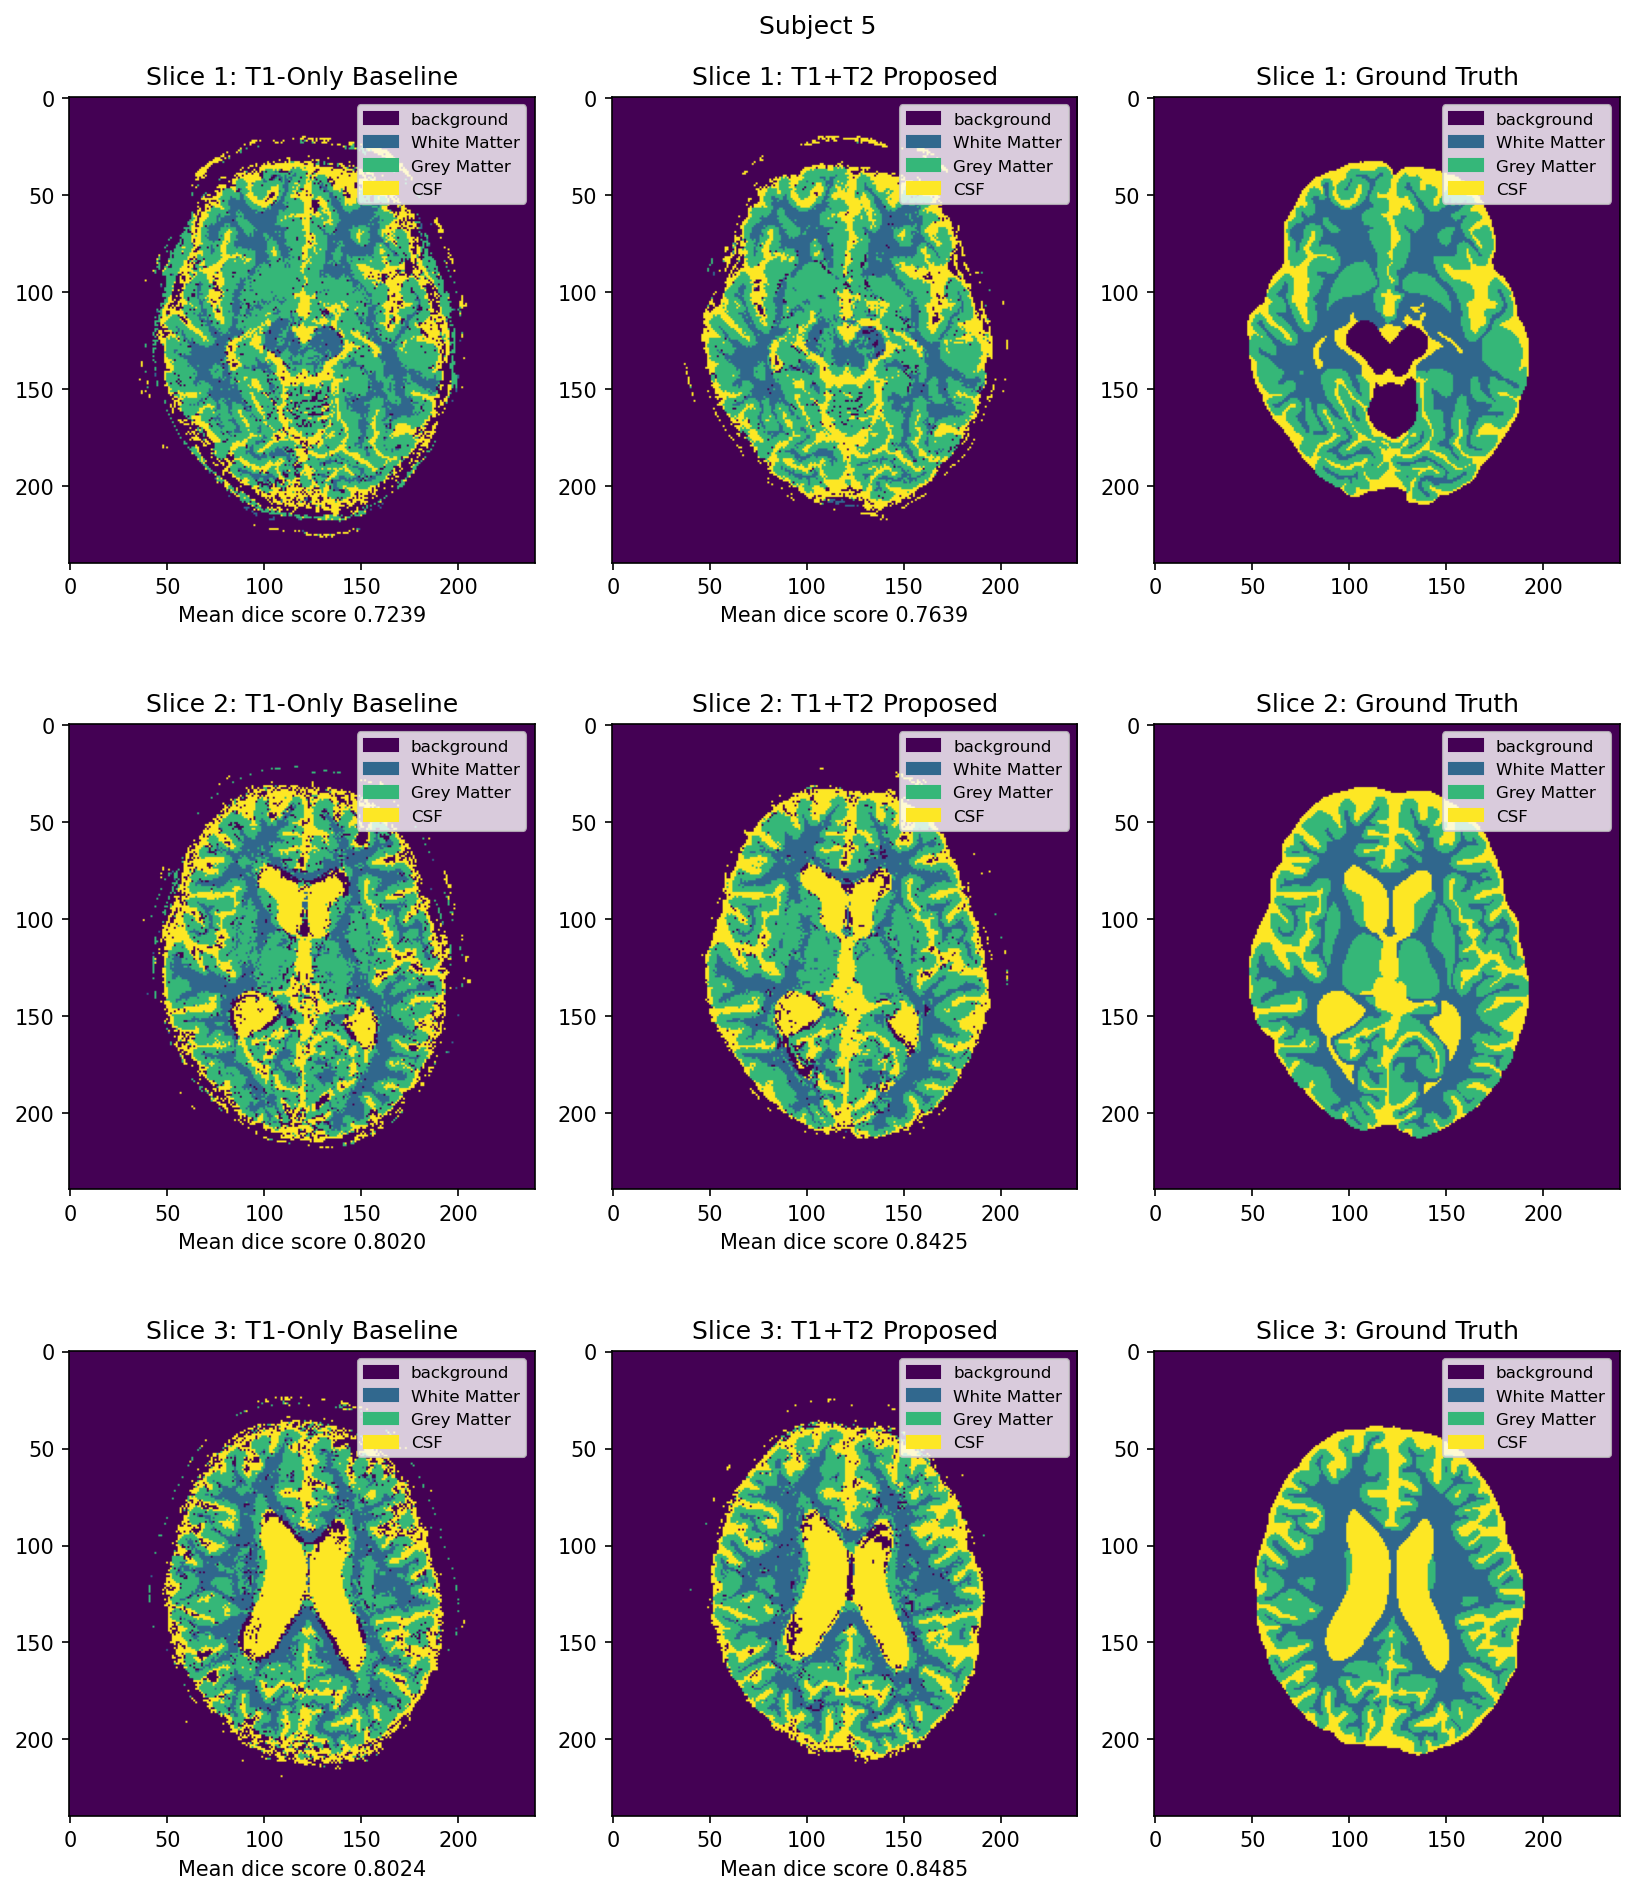
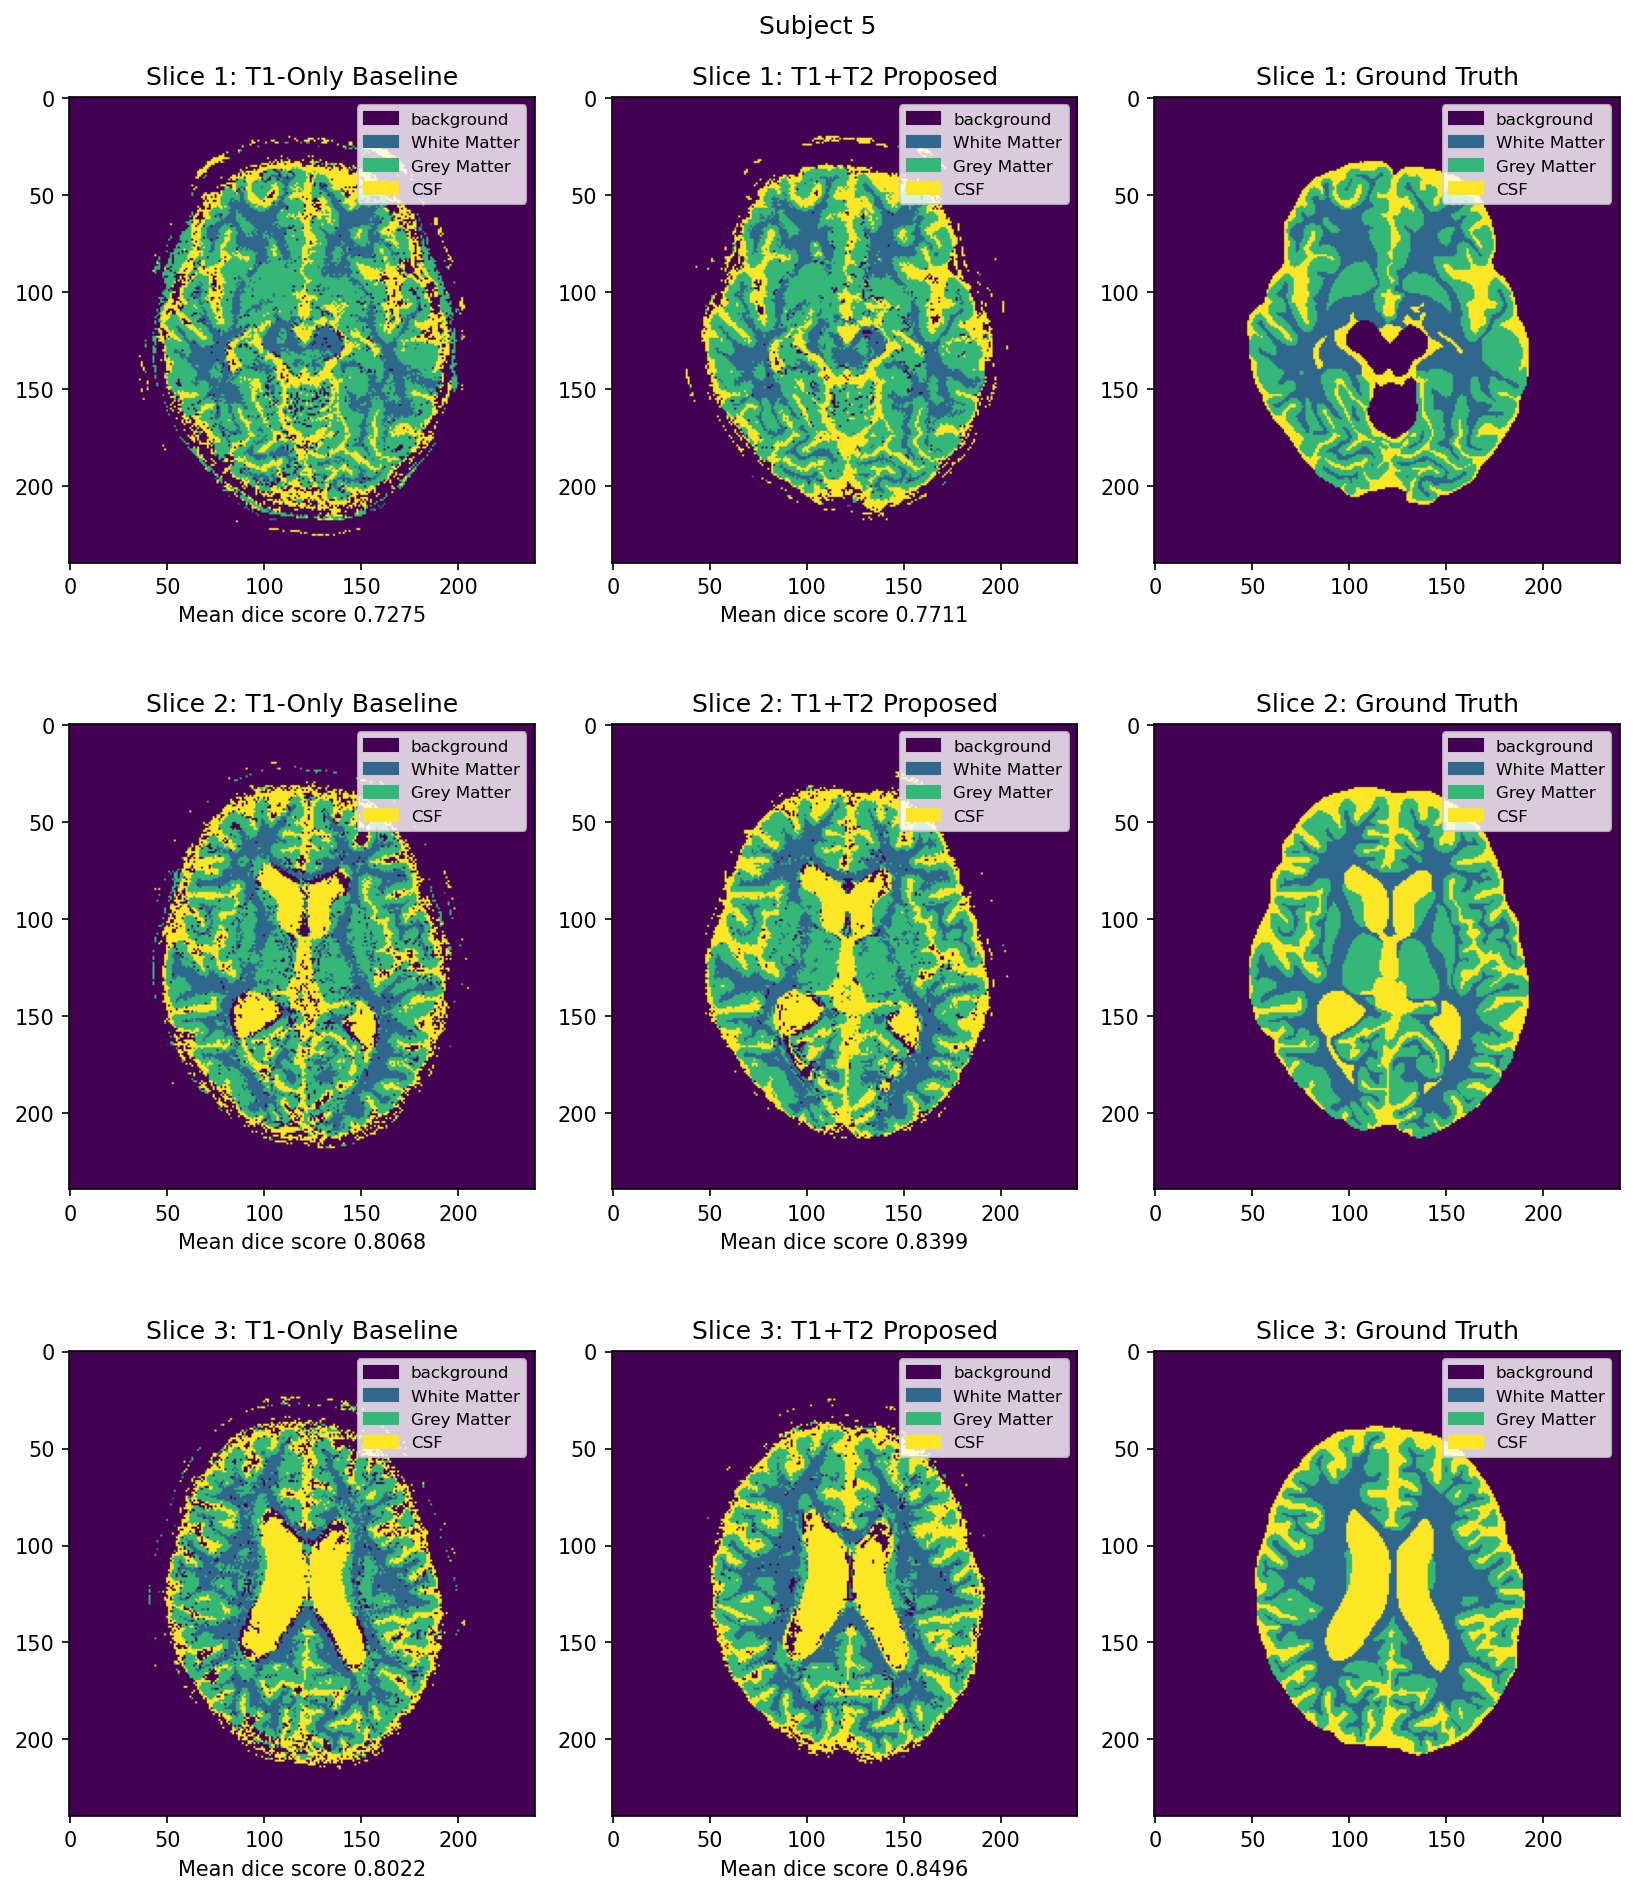
Average dice score per class also printed at the end

diff --git a/Segmentation/code/segmentation_project.py b/Segmentation/code/segmentation_project.py
@@ -44,9 +44,14 @@ def segmentation_demo():
     all_data_t1t2 = []
     all_labels = []
 
-    average_confusion_matrix_t1 = np.zeros((4,4)) #because we have 4 classes (background, CSF, GM, WM)
-    average_confusion_matrix_t1t2 = np.zeros((4,4)) #because we have 4 classes (background, CSF, GM, WM)
+    sum_confusion_matrix_t1 = np.zeros((4,4)) #because we have 4 classes (background, CSF, GM, WM)
+    sum_confusion_matrix_t1t2 = np.zeros((4,4)) #because we have 4 classes (background, CSF, GM, WM)
     count = 0
+
+    labels = ['background', 'White Matter', 'Grey Matter', 'CSF']
+
+    dice_sum_t1 = 0
+    dice_sum_t1t2 = 0
 
     print(f'Loading data for {num_subjects} subjects with {len(train_slices)} slices...')
     for i in all_subjects:
@@ -77,12 +82,9 @@ def segmentation_demo():
     all_indices = np.arange(num_subjects * len(train_slices))
 
     # -----Create legend for all slices--------------------------
-    labels = ['background', 'White Matter', 'Grey Matter', 'CSF']
     cmap = plt.cm.viridis
     colors = cmap([0/3, 1/3, 2/3, 3/3])  # normalized positions in the colormap
     patches = [mpatches.Patch(color=colors[i], label=labels[i])for i in range(len(labels))]
-
-    dice_score_list = []
 
     # Leave-One-Slice-Out Cross-Validation
     for i in all_subjects:
@@ -114,9 +116,11 @@ def segmentation_demo():
             predicted_labels_t1 = segmentation_mymethod(train_data_t1, train_labels, test_data_t1, task)
 
             # Validate prediction
-            dice_t1 = util.dice_multiclass(test_labels, predicted_labels_t1)
+            dice_per_class_t1 = util.dice_multiclass(test_labels, predicted_labels_t1)
+            dice_t1 = np.mean(dice_per_class_t1)
+            dice_sum_t1 += dice_per_class_t1
             conf_matrix_t1 = util.confusion_matrix(test_labels, predicted_labels_t1)
-            average_confusion_matrix_t1 += conf_matrix_t1
+            sum_confusion_matrix_t1 += conf_matrix_t1
             print(f"Confusion Matrix for subject {sub} slice {slice} (T1-only):\n{conf_matrix_t1}")
 
             #----------------- T1 + T2 ------------------------------------------
@@ -125,9 +129,11 @@ def segmentation_demo():
             predicted_labels_t1t2 = segmentation_mymethod(train_data_t1t2, train_labels, test_data_t1t2, task)
 
             # Validate prediction
-            dice_t1t2 = util.dice_multiclass(test_labels, predicted_labels_t1t2)
+            dice_per_class_t1t2 = util.dice_multiclass(test_labels, predicted_labels_t1t2)
+            dice_t1t2 = np.mean(dice_per_class_t1t2)
+            dice_sum_t1t2 += dice_per_class_t1t2
             conf_matrix_t1t2 = util.confusion_matrix(test_labels, predicted_labels_t1t2)
-            average_confusion_matrix_t1t2 += conf_matrix_t1t2
+            sum_confusion_matrix_t1t2 += conf_matrix_t1t2
             print(f"Confusion Matrix for subject {sub} slice {slice} (T1+T2):\n{conf_matrix_t1t2}")
 
             # -------------- Visualization --------------------------------
@@ -157,8 +163,12 @@ def segmentation_demo():
         fig.savefig(f"Test_{sub}.png", dpi=150, bbox_inches='tight')
         plt.show()
 
-    average_confusion_matrix_t1 = np.round(average_confusion_matrix_t1 / count).astype(int) #average confusion matrix across all subjects and slices for T1-only
-    average_confusion_matrix_t1t2 = np.round(average_confusion_matrix_t1t2 / count).astype(int) #average confusion matrix across all subjects and slices for T1+T2
-
+    average_confusion_matrix_t1 = np.round(sum_confusion_matrix_t1 / count).astype(int) #average confusion matrix across all subjects and slices for T1-only
+    average_confusion_matrix_t1t2 = np.round(sum_confusion_matrix_t1t2 / count).astype(int) #average confusion matrix across all subjects and slices for T1+T2
     print(f"\nAverage Confusion Matrix with T1-only:\n{average_confusion_matrix_t1}")
     print(f"Average Confusion Matrix with T1+T2:\n{average_confusion_matrix_t1t2}\n")
+
+    average_dice_t1 = dice_sum_t1 / count
+    average_dice_t1t2 = dice_sum_t1t2 / count
+    print(f"Average Dice score with T1-only: {average_dice_t1}")
+    print(f"Average Dice score with T1+T2: {average_dice_t1t2}\n")

diff --git a/Segmentation/code/segmentation_util.py b/Segmentation/code/segmentation_util.py
@@ -32,7 +32,7 @@ def scatter_data(X, Y, feature0=0, feature1=1, ax=None):
     # scater_data displays a scatterplot of at most 1000 samples from dataset X, and gives each point
     # a different color based on its label in Y
 
-    k = 1000
+    k = 10
     if len(X) > k:
         idx = np.random.randint(len(X), size=k)
         X = X[idx,:]
@@ -282,9 +282,7 @@ def dice_multiclass(true_labels, predicted_labels):
         dice_score[i] = dice_overlap(temp_true.astype(int), temp_predicted.astype(int))
         print(f"Dice score for {class_names[i]}: {dice_score[i]}")
 
-    dice_score_mean = dice_score.mean()
-
-    return dice_score_mean
+    return dice_score.flatten() #flatten to return a dice score for each class
 
 def confusion_matrix(true_labels, predicted_labels):
     import pandas as pd
